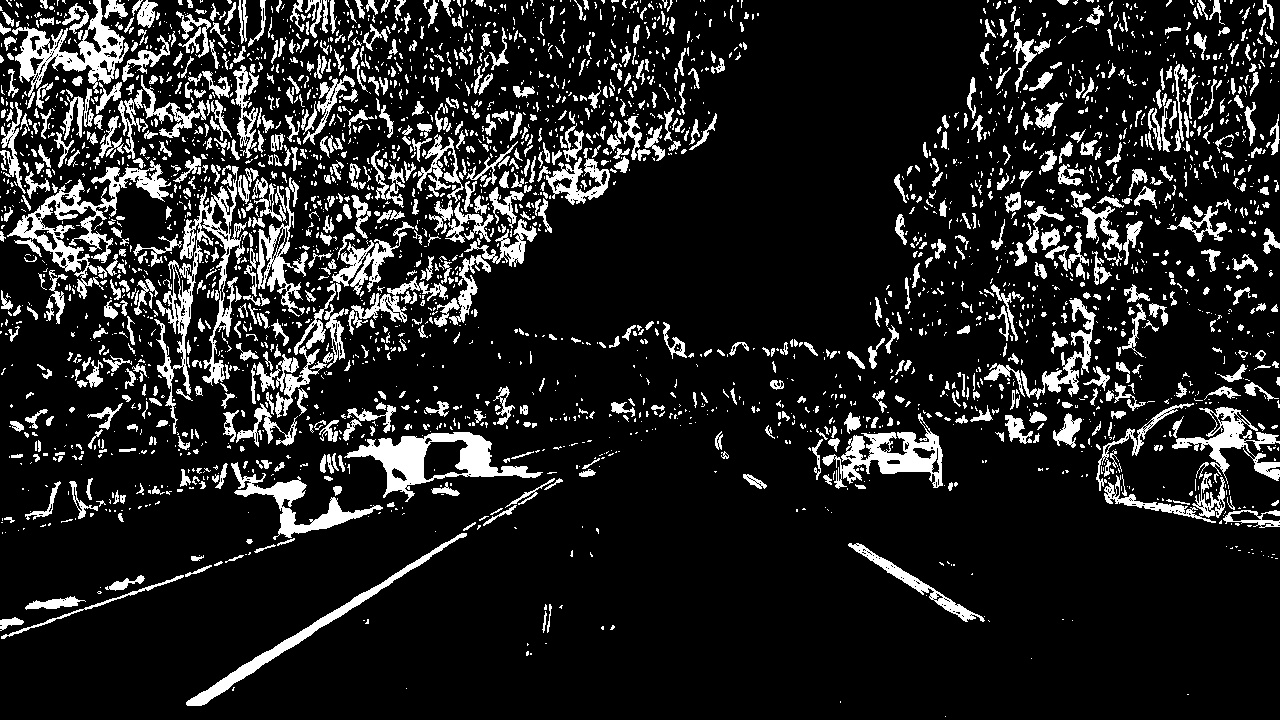
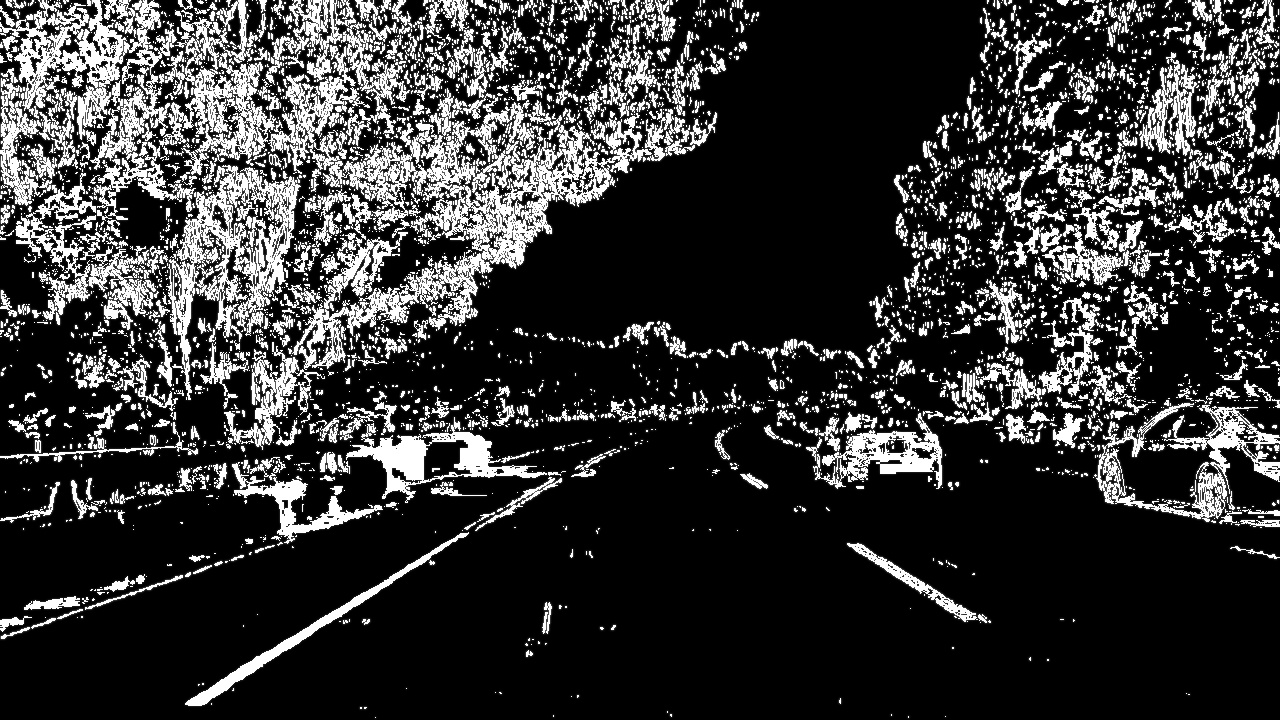
reconfigure docker setup

diff --git a/alf/detectors/corner_detector.py b/alf/detectors/corner_detector.py
@@ -1,0 +1,56 @@
+import cv2
+import numpy
+from common.lane import Lane
+# WIP, DEPRECATED?
+
+
+class CornerDetector(object):
+
+    def __init__(self, n=4):
+        """
+        :number: corners you want to find
+        """
+        self._number = n
+
+    def _draw_lines(self, image, lines, color=[255, 0, 0], thickness=2):
+        """
+        Renders lines upon the image.
+        """
+        for line in lines:
+            for x1, y1, x2, y2 in line:
+                cv2.line(image, (x1, y1), (x2, y2), color, thickness)
+
+    def find(self, binary):
+        """
+        Find n amount of corners in grayscale image
+
+        :image: grayscale image
+        quality level, which is a value between 0-1, which denotes the minimum quality of corner below which everyone is rejected.
+        Then we provide the minimum euclidean distance between corners detected.
+        """
+        rho = 1            # distance resolution in pixels of the Hough grid
+        theta = numpy.pi/180  # angular resolution in radians of the Hough grid
+        threshold = 15     # minimum number of votes
+        min_line_len = 15  # minimum number of pixels to concider as line
+        # maximum pixel space between connectable line segments.
+        max_line_gap = 1
+
+        height, width = binary.shape
+
+        lines = cv2.HoughLinesP(binary, rho, theta, threshold, numpy.array(
+            []), minLineLength=min_line_len, maxLineGap=max_line_gap)
+
+        markers = Lane.extrapolate(lines, width, height)
+        self._draw_lines(binary, [markers])
+
+        # corners = Lane.extrapolate(lines, width, height)
+
+        # # corners = cv2.goodFeaturesToTrack(binary, self._number, 0.01, 10)
+        # # print(corners)
+        # # corners = numpy.int0(corners)
+        # # corners = sorted(numpy.concatenate(corners).tolist())
+
+        # for corner in corners:
+        #     cv2.circle(binary, corner, 5, color=(0, 0, 250), thickness=-1)
+
+        return binary

diff --git a/alf/pipeline/thresholder.py b/alf/pipeline/thresholder.py
@@ -44,9 +44,7 @@ class Thresholder(object):
         :param: image an undistorted image
         """
         image = numpy.copy(image)
-        # TODO: check if blurring gives improvment.
-        # image = cv2.GaussianBlur(image, (5, 5), 0)
-        #   image = cv2.medianBlur(image, 5)
+
         h, l, s = self._channels(image)
 
         gradient_thresholded = self._gradientx(l, sx_thresh)
@@ -55,15 +53,15 @@ class Thresholder(object):
         color_binary = numpy.dstack(
             (numpy.zeros_like(gradient_thresholded), gradient_thresholded, color_thresholded)) * 255
 
-        color_binary[(gradient_thresholded != 0) |
-                     (color_thresholded != 0)] = 255
+        # TODO: check if blurring gives improvment.
+        # image = cv2.GaussianBlur(image, (5, 5), 0)
+        #   image = cv2.medianBlur(image, 5)
+        grayscale = cv2.cvtColor(color_binary, cv2.COLOR_BGR2GRAY)
+        kernel_size = 5
+        blurred = cv2.GaussianBlur(grayscale, (kernel_size, kernel_size), 0)
+
+        blurred[(gradient_thresholded != 0) |
+                (color_thresholded != 0)] = 255
         # color_binary[]
 
-        return color_binary  # cv2.cvtColor(color_binary, cv2.COLOR_RGB2BGR)
-
-
-if __name__ == "__main__":
-    image = cv2.imread('./assets/output_images/test5_undistorted_example.jpg')
-    thr = Thresholder()
-    mask = thr.threshold(image)
-    cv2.imwrite('./assets/output_images/test5_undistorted_thresholded.jpg', mask)
+        return blurred  # cv2.cvtColor(color_binary, cv2.COLOR_RGB2BGR)

diff --git a/alf/common/line.py b/alf/common/line.py
@@ -1,4 +1,7 @@
 # Define a class to receive the characteristics of each line detection
+import numpy
+
+
 class Line():
     def __init__(self):
         # was the line detected in the last iteration?
@@ -10,14 +13,31 @@ class Line():
         # polynomial coefficients averaged over the last n iterations
         self.best_fit = None
         # polynomial coefficients for the most recent fit
-        self.current_fit = [np.array([False])]
+        self.current_fit = [numpy.array([False])]
         # radius of curvature of the line in some units
         self.radius_of_curvature = None
         # distance in meters of vehicle center from the line
         self.line_base_pos = None
         # difference in fit coefficients between last and new fits
-        self.diffs = np.array([0, 0, 0], dtype='float')
+        self.diffs = numpy.array([0, 0, 0], dtype='float')
         # x values for detected line pixels
         self.allx = None
         # y values for detected line pixels
         self.ally = None
+
+    @staticmethod
+    def extrapolate(center, slope, height, k=0.6):
+        """
+        Calculate the desired start and end points from a given center point and slope with linear equation:
+
+            y = mx + b
+
+        Height is y axis maximum, k a scaling constant to be able to control where the line stops.
+        """
+        x, y = center
+        b = y - slope * x
+
+        x1 = (height - b) / slope
+        x2 = (height * k - b) / slope
+
+        return [x1, height, x2, height * k]

diff --git a/alf/processor.py b/alf/processor.py
@@ -1,0 +1,46 @@
+import cv2
+import glob
+from pipeline.undistorter import Undistorter
+from pipeline.thresholder import Thresholder
+from detectors.corner_detector import CornerDetector
+
+
+def example():
+    # 1. CALIBRATION STEP
+
+    # Get all calibration file names
+    calibration_file_name = glob.glob('./assets/camera_cal/calibration*.jpg')
+
+    # Load all calibration images
+    calibration_images = list(
+        map(lambda file: cv2.imread(file), calibration_file_name))
+
+    # Create and calibrate an undistorter
+    undistorter = Undistorter()
+    undistorter.calibrate(calibration_images)
+
+    # 2. UNDISTORTION STEP
+    step2_source = cv2.imread('./assets/test_images/test5.jpg')
+    step2_dst = undistorter.undistort(step2_source)
+    # Save example
+    cv2.imwrite(
+        './assets/output_images/test5_undistorted_example.jpg', step2_dst)
+
+    # 3. BINARY IMAGE THRESHOLD STEP
+    step3_source = cv2.imread(
+        './assets/output_images/test5_undistorted_example.jpg')
+    thresholder = Thresholder()
+    step3_dst = thresholder.threshold(step3_source)
+    cv2.imwrite(
+        './assets/output_images/test5_undistorted_thresholded.jpg', step3_dst)
+
+    # 4. PERSPECTIVE TRANSORMATION
+    step4_src = cv2.imread(
+        './assets/output_images/test5_undistorted_thresholded.jpg')
+    print(step4_src)
+    detector = CornerDetector()
+    corners = detector.find(step4_src)
+    cv2.imwrite('./assets/output_images/corners_example.jpg', corners)
+
+
+example()

diff --git a/alf/common/lane.py b/alf/common/lane.py
@@ -1,0 +1,35 @@
+import numpy
+from .line import Line
+
+
+class Lane(object):
+    def extrapolate(self, lines, width, height):
+        """
+        Extrapolating the left and right road marker (Hough) data
+        """
+        rm = []
+        lm = []
+        rc = []
+        lc = []
+
+        for line in lines:
+            for x1, y1, x2, y2 in line:
+                slope = (y2-y1)/(x2-x1)
+                center = [(x1 + x2)/2, (y1 + y2)/2]
+                if (slope < -0.5):
+                    lm.append(slope)
+                    lc.append(center)
+                elif(slope > 0.5):
+                    rm.append(slope)
+                    rc.append(center)
+
+        r_slope = numpy.sum(rm)/len(rm)
+        l_slope = numpy.sum(lm)/len(lm)
+
+        r_center = numpy.divide(numpy.sum(rc, axis=0), len(rc))
+        l_center = numpy.divide(numpy.sum(lc, axis=0), len(lc))
+
+        right = Line.extrapolate(r_center, r_slope, height)
+        left = Line.extrapolate(l_center, l_slope, height)
+
+        return numpy.array([left, right], dtype=numpy.int)

diff --git a/alf/pipeline/transformer.py b/alf/pipeline/transformer.py
@@ -1,0 +1,29 @@
+import cv2
+import numpy
+
+
+class Transformer(object):
+
+    def warp(self, binary, src, dst):
+
+        # corners = cv2.goodFeaturesToTrack(binary)
+        # corners = numpy.int0(corners)
+        # corners = sorted(numpy.concatenate(corners).tolist())
+
+        # for corner in corners:
+        #     cv2.circle(binary, corner, 5, color=(0, 0, 250), thickness=-1)
+
+        return binary
+        # M = cv2.getPerspectiveTransform(src, dst)
+        # # Minv = cv2.getPerspectiveTransform(dst, src)
+
+        # height, width, _ = image.shape
+        # cv2.warpPerspective(image, M, (height, width), flags=cv2.INTER_LINEAR)
+
+
+if __name__ == "__main__":
+    gray = cv2.imread(
+        './assets/outout_images/test5_undistorted_thresholded.py')
+
+    tr = Transformer()
+    # tr.warp(gray)

diff --git a/alf/pipeline/undistorter.py b/alf/pipeline/undistorter.py
@@ -52,14 +52,3 @@ class Undistorter(object):
         ret, mtx, dist, rvecs, tvecs = cv2.calibrateCamera(
             self._object_points, self._image_points, gray.shape[::-1], None, None)
         return cv2.undistort(image, mtx, dist, None, mtx)
-
-
-#
-if __name__ == "__main__":
-    files = glob.glob('./assets/camera_cal/calibration*.jpg')
-    images = list(map(lambda file: cv2.imread(file), files))
-    cal = Undistorter()
-    cal.calibrate(images)
-    test = cv2.imread('./assets/test_images/test5.jpg')
-    dst = cal.undistort(test)
-    cv2.imwrite('./assets/output_images/test5_undistorted_example.jpg', dst)

diff --git a/alf/common/roi.py b/alf/common/roi.py
@@ -1,0 +1,16 @@
+import numpy
+
+
+class Roi(object):
+    @staticmethod
+    def vertices(width, height, k=0.54):
+        """
+        Creates the vertices to denote a region of interest.
+        """
+        return numpy.array([
+            [
+                (0, height),
+                (width, height),
+                (width//2 - 25, height * k),
+                (width//2 + 25, height * k)
+            ]], dtype=numpy.int)

diff --git a/setup.py b/setup.py
@@ -2,8 +2,10 @@ from setuptools import find_packages, setup
 
 setup(
     name="alf",
-    version="0.1",
-    package_dir={'': 'scr'},
-    packages=find_packages(where='src'),
-    # install_requires=[],
+    version='0.1',
+    author='Joost Oostdijk',
+    author_email='joustava@gmail.com',
+    license='MIT',
+    # package_dir={'': 'alf'},
+    packages=find_packages(where='alf')
 )

diff --git a/alf/detectors/line_detector.py b/alf/detectors/line_detector.py
@@ -1,0 +1,7 @@
+
+# WIP, DEPRECATED?
+class LineDetector():
+    def __init__(self):
+
+    def find(self):
+        return []

diff --git a/WRITEUP.md b/WRITEUP.md
@@ -13,14 +13,16 @@ The goals / steps of this project are the following:
 * Detect lane pixels and fit to find the lane boundary.
 * Determine the curvature of the lane and vehicle position with respect to center.
 * Warp the detected lane boundaries back onto the original image.
-* Output visual display of the lane boundaries and numerical estimation of lane curvature and vehicle position.
+* Output visual display of the lane boundaries and numerical estimation of lane curvature and vehicle position. 
+
+A full project rubrick cn be found from the [project specification](https://review.udacity.com/#!/rubrics/1966/view) (when logged in to Udacity).
 
 ## Setup
 
-This work has been created with the help of Docker. When installed, running `make run` from the repo root directory will start the Docker container and run the pipeline. Output from the pipeline will end up into the `assets/output_images` directory. 
+This work has been created with the help of Docker in order to keep your local environment clean and for easy execution of the pipeline. When Docker is installed, running `make run` from the repo root directory will start the Docker container and run the pipeline. Output from the pipeline will end up into the `assets/output_images` directory.
 
 The images for camera calibration are stored in the folder called `assets/camera_cal`.
-The images in `assets/test_images` are for testing your pipeline on single frames.
+The images in `assets/test_images` are for testing the pipeline on single frames.
 
 ---
 
@@ -67,6 +69,12 @@ Input            |  Output
 
 ## 2.3 Describe how (and identify where in your code) you performed a perspective transform and provide an example of a transformed image
 
+The perspecitve transform requires the knowledge of a set of source points which then are mapped onto desired destination points. We could find them manually but trying to find both sets automatically seems a good usecase for resuing the previous [lane finding project]() solution.
+
+As example input to this step of the pipeline we use the output image of the previous stage: a binary thresholded image. 
+
+
+[WIP]
 ...to transform an image such that we are effectivly viewing objects from  different angle or directon.
 
 The code for my perspective transform includes a function called `warper()`, which appears in lines 1 through 8 in the file `example.py` (output_images/examples/example.py) (or, for example, in the 3rd code cell of the IPython notebook).  The `warper()` function takes as inputs an image (`img`), as well as source (`src`) and destination (`dst`) points.  I chose the hardcode the source and destination points in the following manner:
